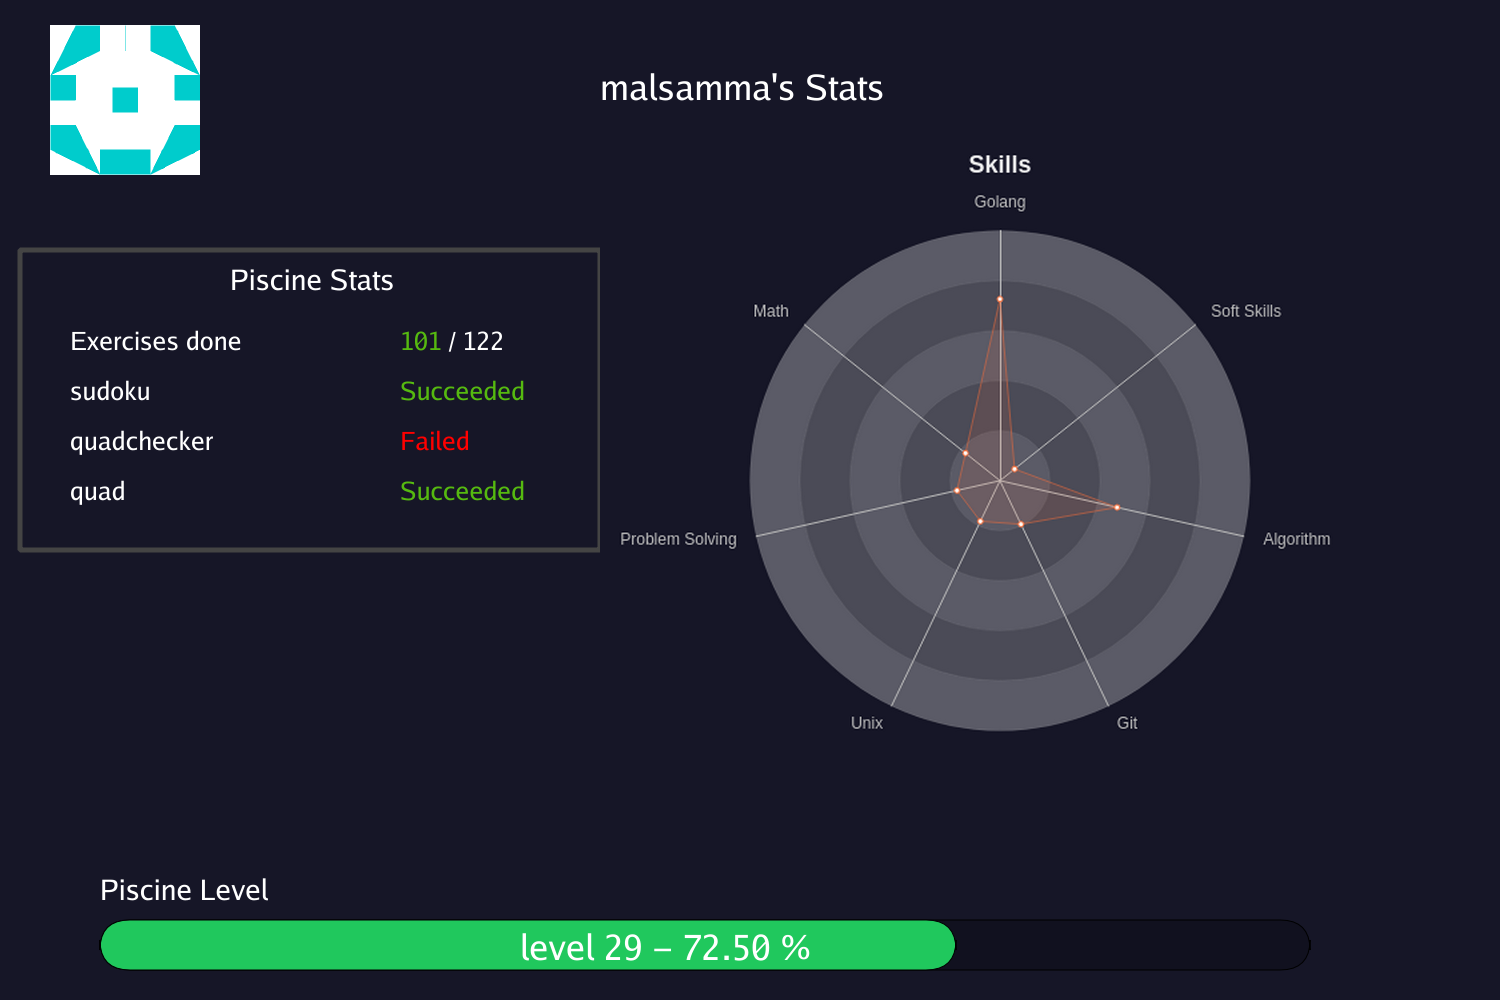
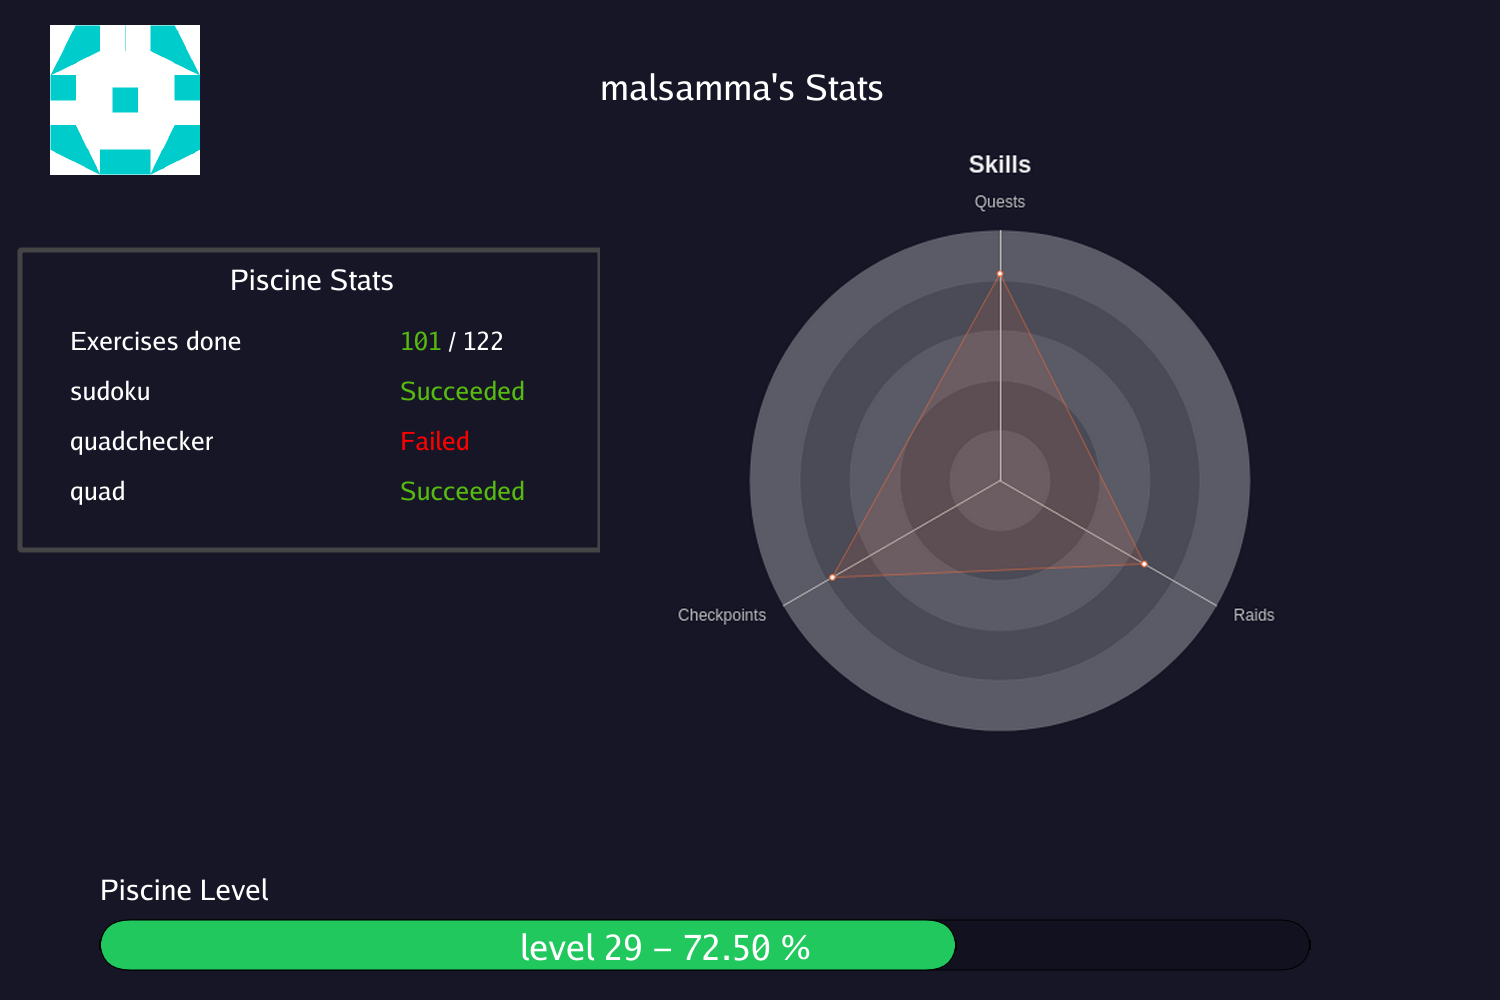
refactor: change the skills type

diff --git a/dataextractor.go b/dataextractor.go
@@ -223,10 +223,13 @@ func ExtractData(idUser int) (string, error) {
 	}
 
 	sumQuestExercises := 0
+	sumCheckpointExercises := 0
 	regex := regexp.MustCompile(`^Quest.*`)
 	for _, q := range questMap {
 		if regex.MatchString(q.Name) {
 			sumQuestExercises += q.count
+		} else {
+			sumCheckpointExercises += q.count
 		}
 	}
 
@@ -258,7 +261,7 @@ func ExtractData(idUser int) (string, error) {
 		return "", errors.New("error no data")
 	}
 	// log.Println(raids)
-
+	raidsCounts := 0
 	raidGenrated := func() []ImageBuilder.Raid {
 		var r []ImageBuilder.Raid
 		for _, raid := range raids {
@@ -267,6 +270,9 @@ func ExtractData(idUser int) (string, error) {
 				Grade:  raid.Event.Progresses[0].Grade,
 				Status: raid.Event.Status,
 			})
+			if raid.Event.Progresses[0].Grade >= 1 {
+				raidsCounts++
+			}
 		}
 		return r
 	}
@@ -285,13 +291,8 @@ func ExtractData(idUser int) (string, error) {
 			Raids:             raidGenrated(),
 			Skills: [][]float32{
 				{
-					skillMap["Golang"].skill * 100,
-					skillMap["Problem Solving"].skill * 100,
-					skillMap["Soft Skills"].skill * 100,
-					skillMap["Unix"].skill * 100,
-					skillMap["Git"].skill * 100,
-					skillMap["Algorithms"].skill * 100,
-					skillMap["Math"].skill * 100,
+					float32(sumQuestExercises),
+					float32(sumCheckpointExercises), float32(raidsCounts),
 				},
 			},
 		},
